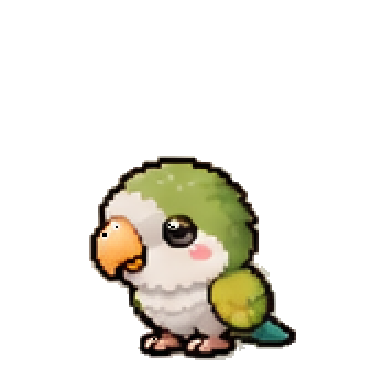
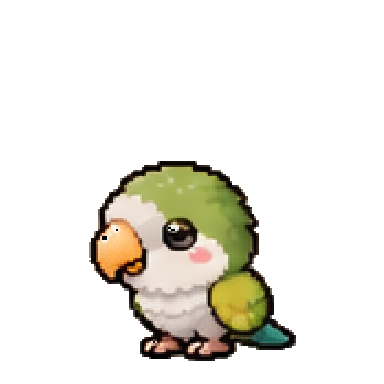
Nuôi thú: áp dụng Abu Correction Working Patch (hungry và sleepy đủ 4 khung, bản tạm); dùng khung v2 căn chân y=361 cho hungry, sleepy

Changed region(s): [[0.2188, 0.4062, 0.7812, 0.9375]]

diff --git a/server/pets.js b/server/pets.js
@@ -229,7 +229,7 @@ function moodOf(st) {
 const ART = { abu: true };
 const spriteUrl = (kind, stage) => (ART[kind] ? `/pets/${kind}/stage_${stage}.webp` : null);
 // Hoạt hình đã có (theo bạn và giai đoạn): idle, walk, happy. Giai đoạn nào chưa có thì hiển thị hình tĩnh.
-const ANIM = { abu: { 0: { idle: { fps: 6, n: 6 }, walk: { fps: 8, n: 6 }, happy: { fps: 8, n: 4 }, hungry: { fps: 6, n: 2 }, bored: { fps: 6, n: 4 }, dirty: { fps: 6, n: 4 }, sleepy: { fps: 6, n: 3 }, sad: { fps: 6, n: 4 }, eat: { fps: 6, n: 4 }, play: { fps: 8, n: 4 }, wash: { fps: 6, n: 4 }, sleep: { fps: 6, n: 4 } } } };
+const ANIM = { abu: { 0: { idle: { fps: 6, n: 6 }, walk: { fps: 8, n: 6 }, happy: { fps: 8, n: 4 }, hungry: { fps: 6, n: 4 }, bored: { fps: 6, n: 4 }, dirty: { fps: 6, n: 4 }, sleepy: { fps: 6, n: 4 }, sad: { fps: 6, n: 4 }, eat: { fps: 6, n: 4 }, play: { fps: 8, n: 4 }, wash: { fps: 6, n: 4 }, sleep: { fps: 6, n: 4 } } } };
 const animFor = (kind, stage) => {
   const a = ANIM[kind]?.[stage];
   return a ? Object.fromEntries(Object.entries(a).map(([name, v]) => [name, { fps: v.fps, urls: Array.from({ length: v.n }, (_, i) => `/pets/${kind}/s${stage}/${name}/${String(i + 1).padStart(2, '0')}.webp`) }])) : null;

diff --git a/test/api.test.js b/test/api.test.js
@@ -1943,7 +1943,7 @@ test('Nuôi thú: cửa hàng đồ ăn, đồ chơi, nhà/lồng/bể; vật ph
     assert.equal(s0.kinds.find((k) => k.id === 'abu').sprite, '/pets/abu/stage_0.webp');
     for (let n = 0; n < 4; n++) assert.ok((await import('node:fs')).existsSync(`public/pets/abu/stage_${n}.webp`));
     // hoạt hình: Abu giai đoạn Bé có idle (6), walk (6), happy (4); tệp có thật; bạn khác chưa có
-    assert.deepEqual(Object.fromEntries(Object.entries(abuPet.anim).map(([k, v]) => [k, v.urls.length])), { idle: 6, walk: 6, happy: 4, hungry: 2, bored: 4, dirty: 4, sleepy: 3, sad: 4, eat: 4, play: 4, wash: 4, sleep: 4 });
+    assert.deepEqual(Object.fromEntries(Object.entries(abuPet.anim).map(([k, v]) => [k, v.urls.length])), { idle: 6, walk: 6, happy: 4, hungry: 4, bored: 4, dirty: 4, sleepy: 4, sad: 4, eat: 4, play: 4, wash: 4, sleep: 4 });
     assert.equal(abuPet.anim.walk.fps, 8); assert.equal(uni.anim, null);
     for (const a of Object.values(abuPet.anim)) for (const u of a.urls) assert.ok((await import('node:fs')).existsSync(`public${u}`), u);
     db.prepare('UPDATE pets SET food = 20, stat_at = ? WHERE id = ?').run(now(), uni.id);

diff --git a/art/abu_correction_working_patch/README_QA.md b/art/abu_correction_working_patch/README_QA.md
@@ -1,0 +1,1 @@
+Correction working patch NOT FINAL. Frames are based on valid baseline sprites with indicator-only edits; silhouettes are not full redraws. P0 redraw requirement remains unresolved; do not integrate as production-final. All files PNG RGBA 384x384.
